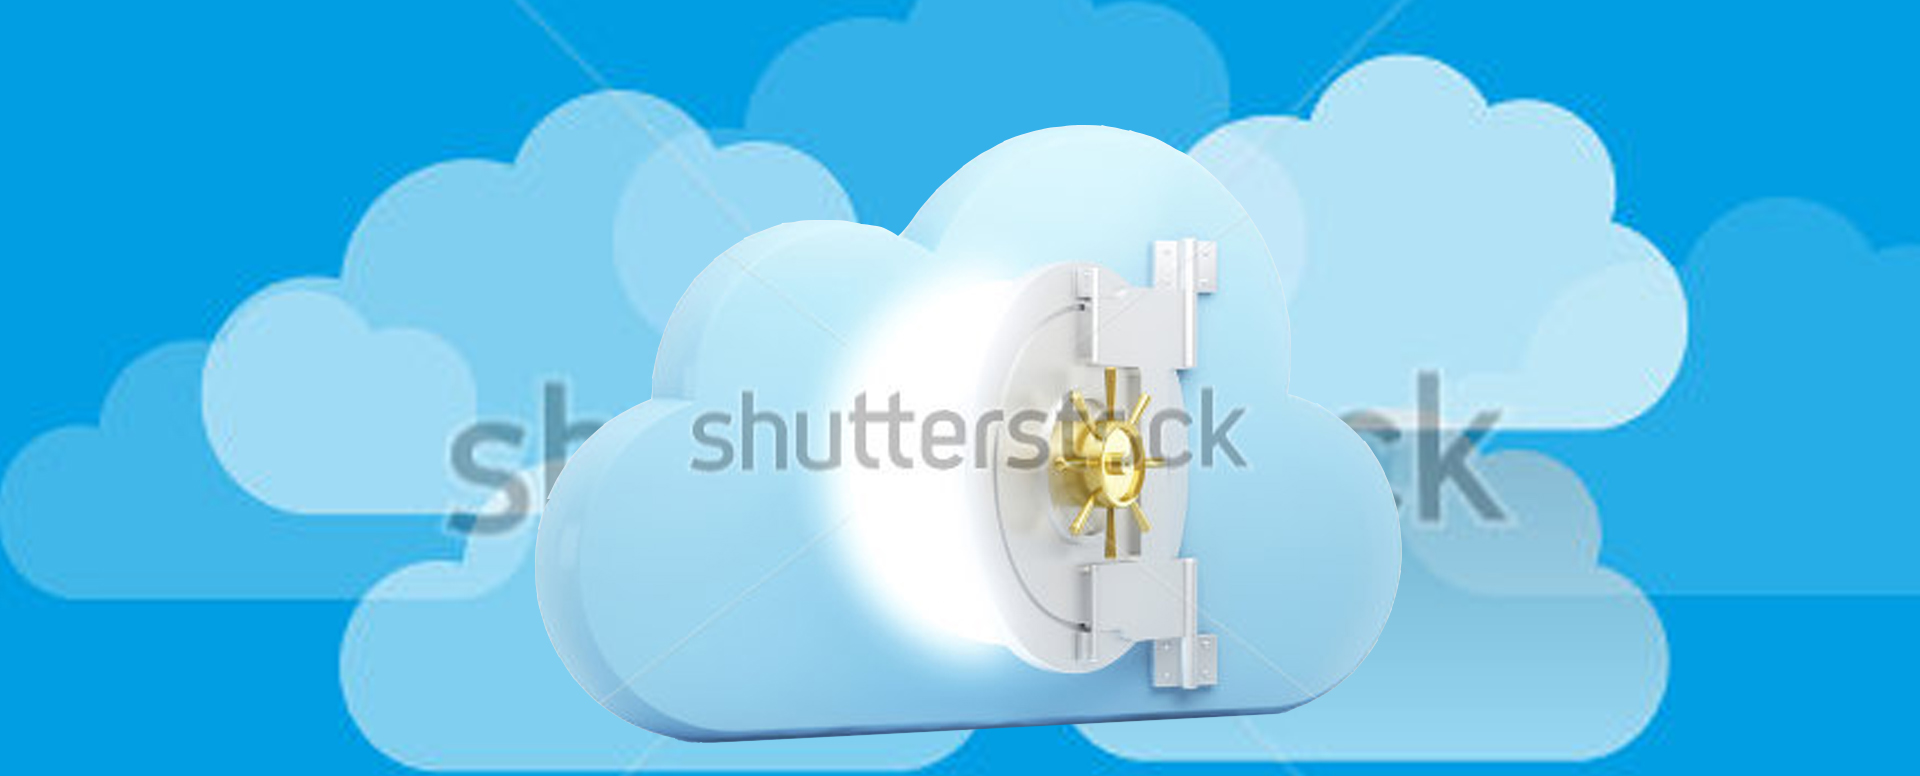
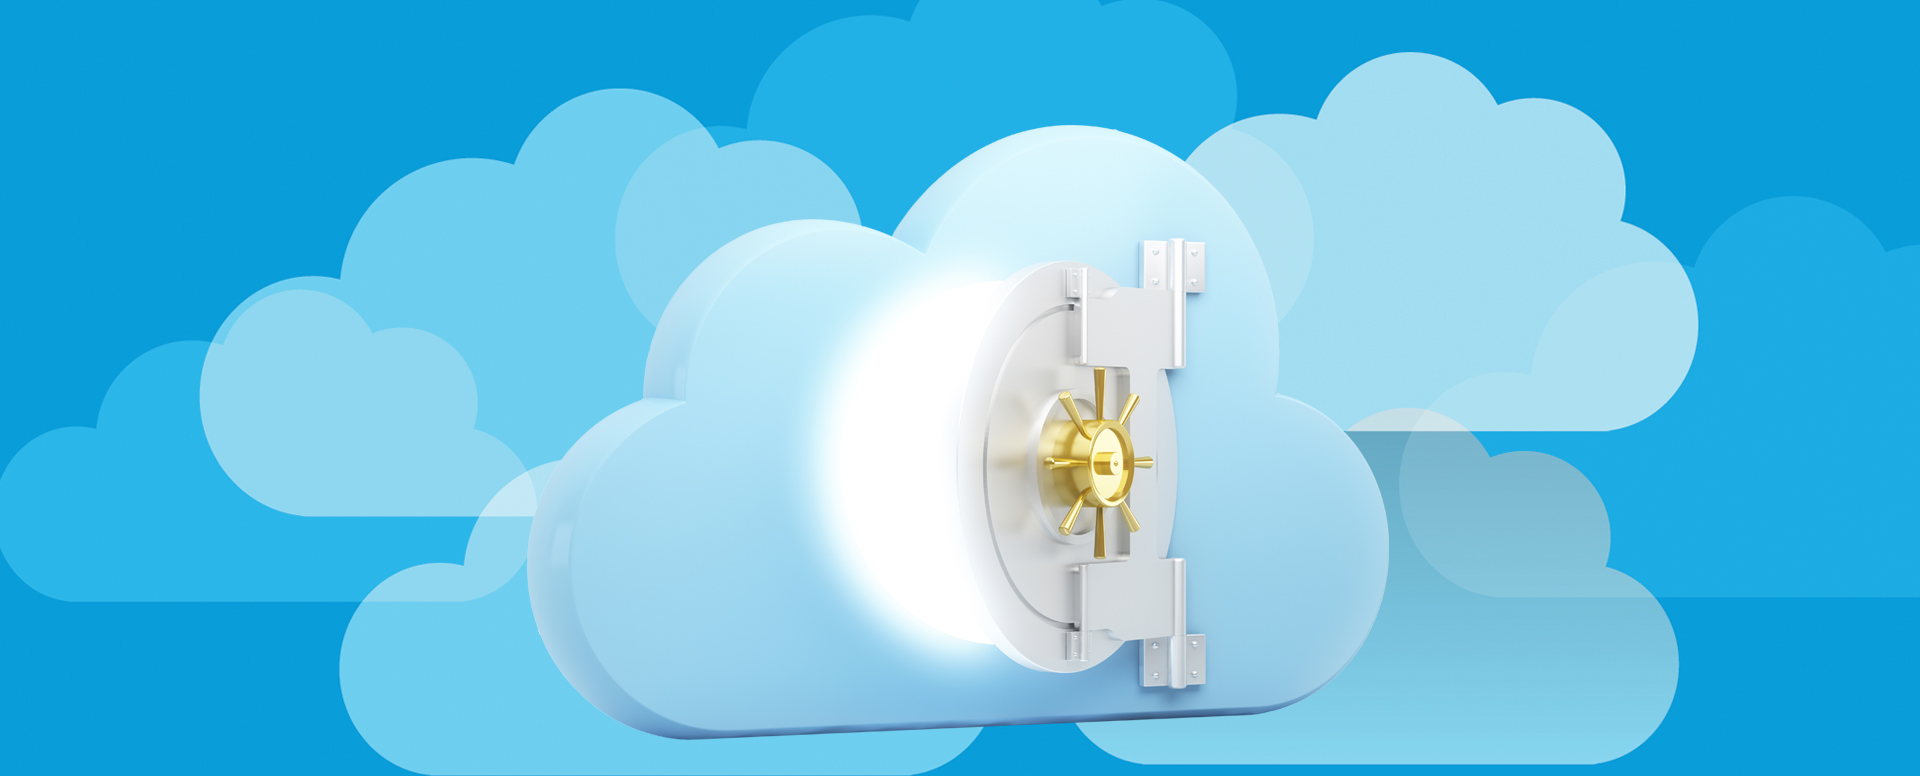
Final stock images into slider.
Final stock images into slider. Also modified subheading in second
slide.

diff --git a/index.html b/index.html
@@ -206,7 +206,7 @@
       <li class="slide-img-2" data-stellar-background-ratio="0.6">
         <div class="position-center-center">
           <h1>Achieve Seamless Cloud Integration</h1>
-          <h5>Truly Corporate Theme</h5>
+          <h5>Unify & Connect Your Business</h5>
           <a href="#." class="btn margin-top-30">Read More <i class="fa fa-caret-right"></i></a> </div>
       </li>
     </ul>
